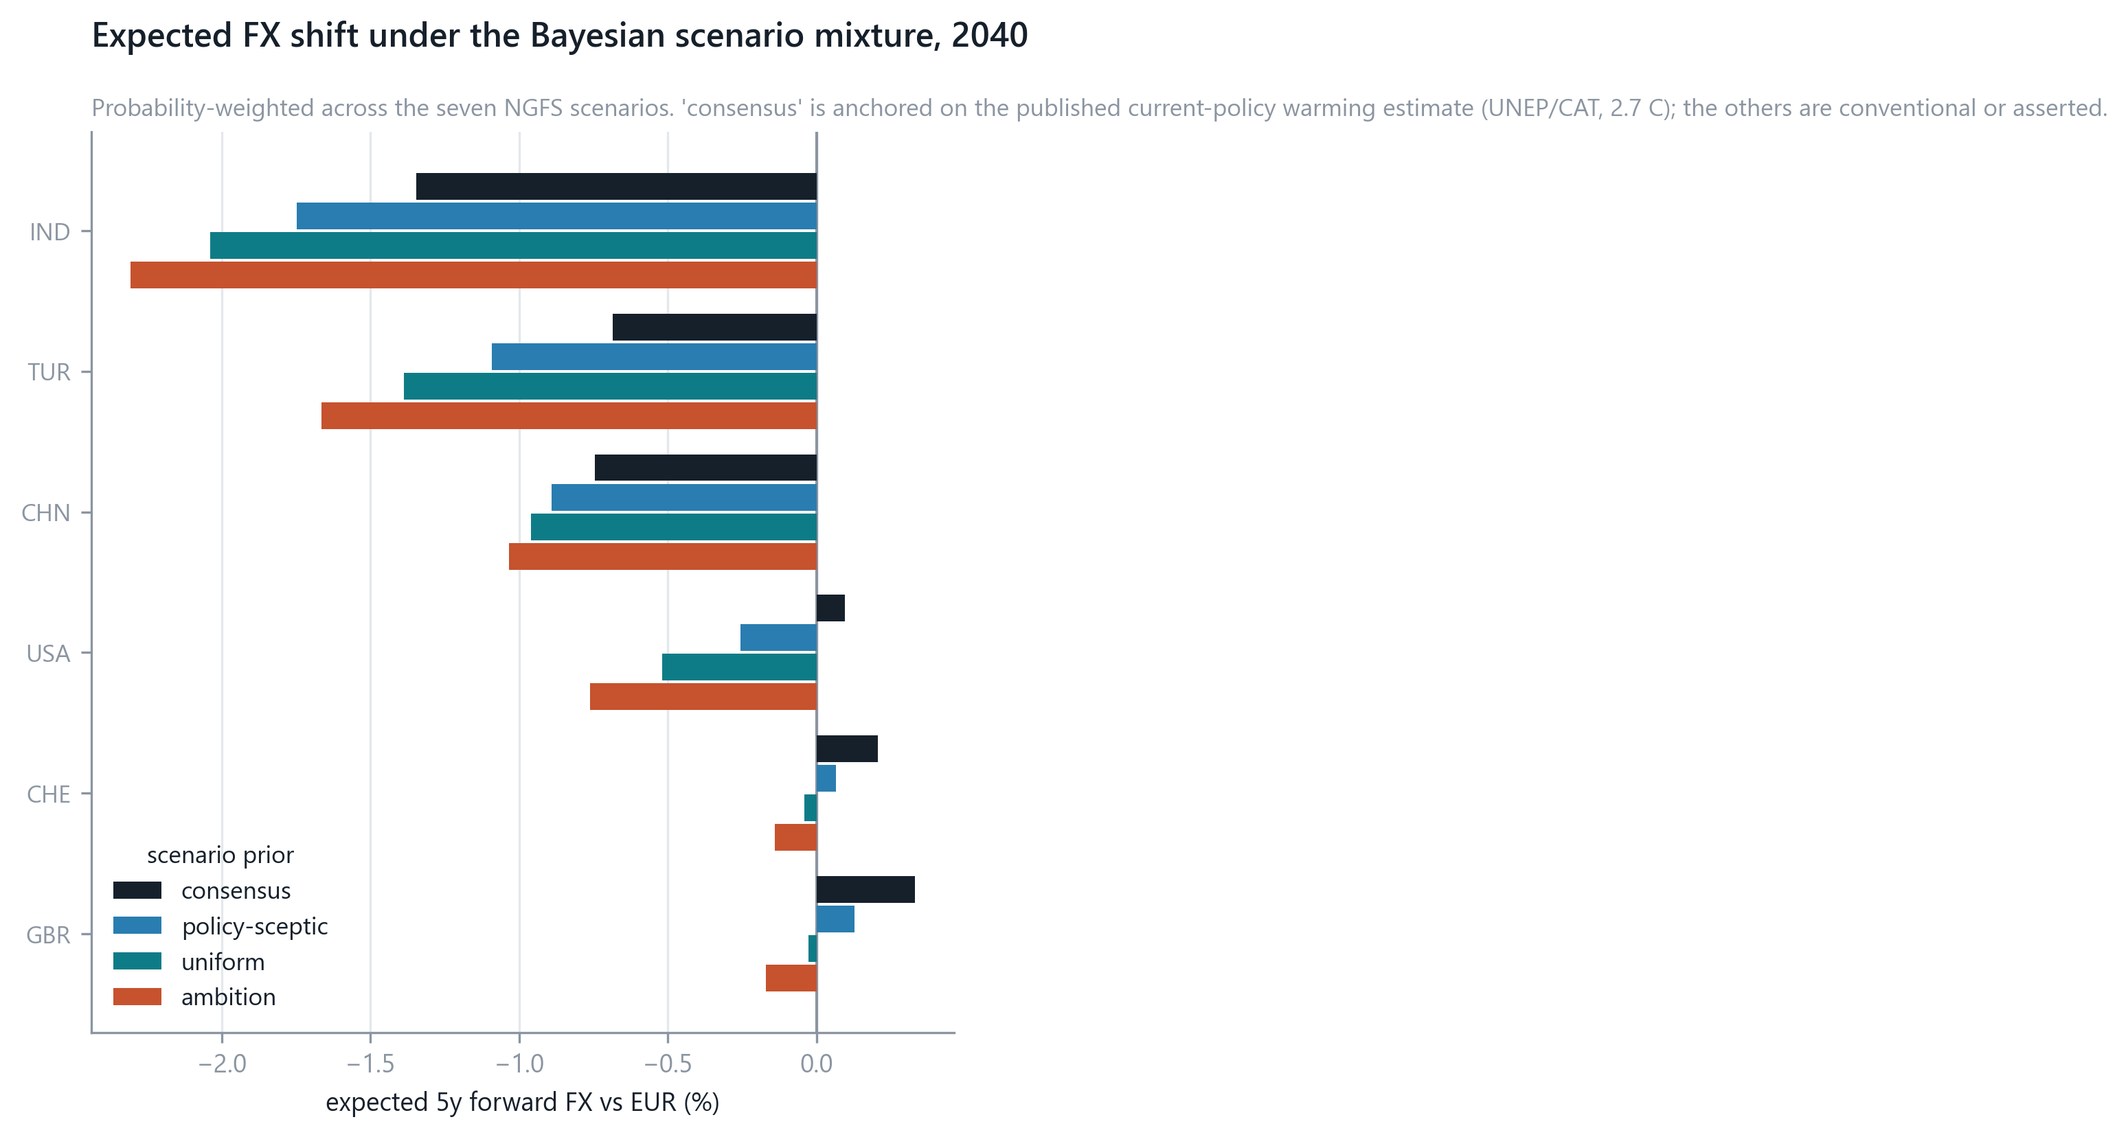
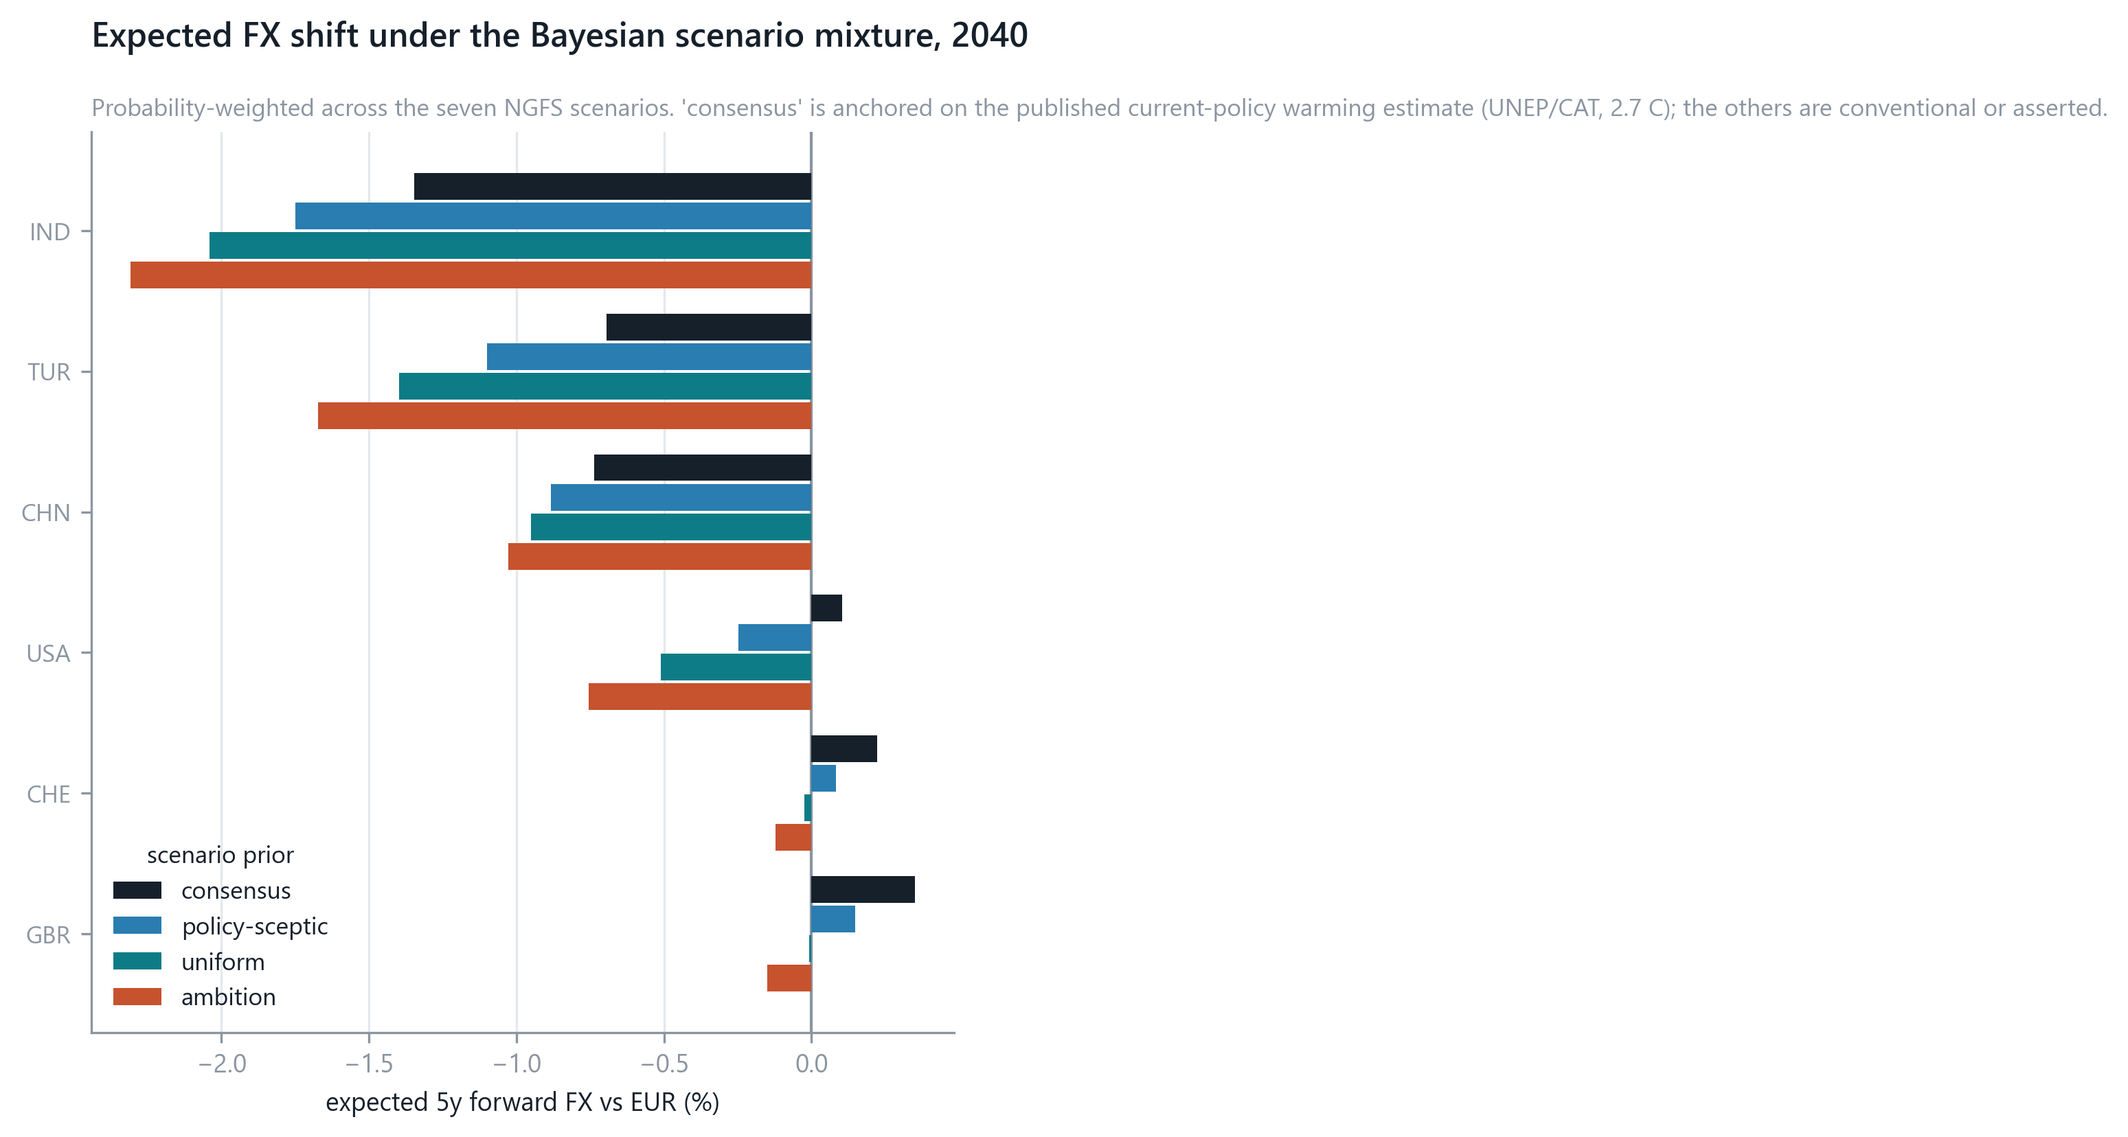
Refresh docs and figures after the ND-GAIN re-pin; restore two lost sections
Pulled four commits from origin. One of them, fb1758b, fixes a bug I introduced:
build_aux_final selected the ND-GAIN vintage with max() over the release's year
columns, so the vulnerability scale silently tracked the 2024 edition while the
GDP weights aggregating it were 2022. Pinning it to the base year changes every
physical damage number, and therefore rates, FX forwards and credit.

The incoming commits regenerated the result tables but not the figures or the
docs that quote them, so:

  * all 13 figures regenerated on the corrected data;
  * CHAPTER_RESULTS: 23 stale numbers updated -- rate shifts moved 0.1-0.4 bp,
    FX forwards 0.01-0.02 pp, and the rate ordering swapped EU27 and USA at
    -39.0 vs -38.1 bp;
  * FX_REPORT: 32 numbers updated across the channel, cross-section, scenario,
    timing, mixture and tail tables, plus the forward-vs-damage correlation
    0.786 -> 0.791;
  * FIGURES: the fig1 and fig5 ranges.

Separately, the incoming rewrite of CHAPTER_VALIDATION replaced my version with
a shorter one and dropped two sections wholesale: the mutation testing and the
cross-implementation reading. The gates they document are all still in the code
-- group F's twelve, and the OPRISK_INPUT switch -- so the effect was to leave
machinery whose rationale had disappeared. Restored both into the new structure
as sections 7 and 8, keeping the incoming sections 1-6 unchanged.

That matters because those two sections carry findings, not commentary: that
[…]

diff --git a/docs/FX_REPORT.md b/docs/FX_REPORT.md
@@ -29,7 +29,7 @@ cross-sectional orderings.
 | | mechanism | driven by | range at 2045 (Net Zero) |
 |---|---|---|--:|
 | **Spot** | relative PPP — cumulative inflation differential | the carbon **price** | 1.85 pp |
-| **5y forward** | spot + CIP rate differential | + physical **damage** | 3.28 pp |
+| **5y forward** | spot + CIP rate differential | + physical **damage** | 3.30 pp |
 
 ## 2. The two channels price different risks
 
@@ -38,8 +38,8 @@ Correlating each against what a region can be — a carbon *taxer*, a
 
 | | vs carbon-pricing **scope** | vs physical **damage** | vs carbon intensity |
 |---|--:|--:|--:|
-| **Spot** | **+0.9999** | +0.444 | −0.525 |
-| **5y forward** | +0.898 | **+0.786** | −0.827 |
+| **Spot** | **+0.9999** | +0.452 | −0.525 |
+| **5y forward** | +0.898 | **+0.791** | −0.826 |
 
 **Spot prices transition risk.** It runs through the Moessner relation
 (ΔΠ = 8e-5 · ΔXCE · scope), so a region's spot move is very nearly a function of
@@ -78,10 +78,10 @@ population that exhibited it is not.
 |---|--:|---|
 | INR | −4.01 % | no carbon pricing, highest vulnerability (ND-GAIN scale 1.34) |
 | TRY | −3.38 % | no carbon pricing, high intensity (264 t/\$m), CBAM-exposed |
-| USD | −2.24 % | low coverage (0.091) on a large carbon price |
-| CNY | −1.50 % | high coverage (0.467) offsets a large GVA shock |
-| GBP | −1.03 % | high coverage (0.326), low intensity (61 t/\$m) |
-| CHF | −0.73 % | lowest intensity in the set (20 t/\$m), low vulnerability |
+| USD | −2.23 % | low coverage (0.091) on a large carbon price |
+| CNY | −1.49 % | high coverage (0.467) offsets a large GVA shock |
+| GBP | −1.01 % | high coverage (0.326), low intensity (61 t/\$m) |
+| CHF | −0.71 % | lowest intensity in the set (20 t/\$m), low vulnerability |
 
 India and Turkey lead on **both** attributes — little carbon pricing (so no
 offsetting inflation) and high exposure (so deep rate cuts). Switzerland sits at
@@ -97,15 +97,15 @@ Range across the six currencies at 2045, split by channel:
 
 | scenario | spot range | forward range | mean physical damage |
 |---|--:|--:|--:|
-| **Net Zero 2050** | 1.85 pp | 3.28 pp | −1.03 % |
-| Low demand | 1.00 pp | 2.41 pp | −1.04 % |
-| Delayed transition | 0.44 pp | 2.10 pp | −1.17 % |
-| Below 2°C | 0.43 pp | 2.05 pp | −1.11 % |
-| NDCs | 0.28 pp | 2.00 pp | −1.15 % |
-| Fragmented World | 0.10 pp | 1.88 pp | −1.21 % |
-| **Current Policies** | 0.02 pp | 1.86 pp | −1.21 % |
+| **Net Zero 2050** | 1.85 pp | 3.30 pp | −1.03 % |
+| Low demand | 1.00 pp | 2.43 pp | −1.04 % |
+| Delayed transition | 0.44 pp | 2.12 pp | −1.17 % |
+| Below 2°C | 0.43 pp | 2.07 pp | −1.11 % |
+| NDCs | 0.28 pp | 2.02 pp | −1.15 % |
+| Fragmented World | 0.10 pp | 1.91 pp | −1.21 % |
+| **Current Policies** | 0.02 pp | 1.88 pp | −1.21 % |
 
-Scenario choice spans only **1.8×** on the forward (3.28 pp against 1.86 pp),
+Scenario choice spans only **1.8×** on the forward (3.30 pp against 1.88 pp),
 because the two channels move in *opposite* directions across scenarios:
 
 * ambitious policy → **high** carbon price (large spot dispersion) but **low**
@@ -128,11 +128,11 @@ risk, at this horizon, is not.** No scenario removes the floor.
 | | 2025 | 2030 | 2035 | 2040 | 2045 |
 |---|--:|--:|--:|--:|--:|
 | IND | −0.85 | −3.54 | −3.30 | −3.61 | −4.01 |
-| TUR | −0.42 | −3.03 | −2.72 | −2.99 | −3.38 |
-| USA | +0.09 | −2.07 | −1.73 | −1.92 | −2.24 |
-| CHN | −0.48 | −1.30 | −1.44 | −1.40 | −1.50 |
-| GBR | +0.23 | −0.98 | −0.75 | −0.85 | −1.03 |
-| CHE | +0.14 | −0.69 | −0.54 | −0.60 | −0.73 |
+| TUR | −0.42 | −3.04 | −2.73 | −3.00 | −3.38 |
+| USA | +0.09 | −2.06 | −1.73 | −1.91 | −2.23 |
+| CHN | −0.48 | −1.30 | −1.43 | −1.39 | −1.49 |
+| GBR | +0.24 | −0.96 | −0.74 | −0.83 | −1.01 |
+| CHE | +0.16 | −0.68 | −0.52 | −0.59 | −0.71 |
 
 The paths jump to 2030 and are then broadly flat, with a shallow dip at 2035. Two
 effects nearly cancel: the transition component peaks and fades as
@@ -150,10 +150,10 @@ Mixing the seven scenarios under a Dirichlet prior (§2.2) gives the expected
 
 | prior | INR | TRY | CNY | USD | GBP | CHF |
 |---|--:|--:|--:|--:|--:|--:|
-| ambition | −2.31 | −1.66 | −1.03 | −0.76 | −0.17 | −0.14 |
-| uniform | −2.04 | −1.39 | −0.96 | −0.52 | −0.03 | −0.04 |
-| policy-sceptic | −1.75 | −1.09 | −0.89 | −0.26 | +0.13 | +0.07 |
-| **consensus** | −1.35 | −0.69 | −0.75 | +0.10 | +0.33 | +0.21 |
+| ambition | −2.31 | −1.67 | −1.03 | −0.75 | −0.15 | −0.12 |
+| uniform | −2.04 | −1.40 | −0.95 | −0.51 | −0.01 | −0.02 |
+| policy-sceptic | −1.75 | −1.10 | −0.88 | −0.25 | +0.15 | +0.08 |
+| **consensus** | −1.35 | −0.69 | −0.74 | +0.10 | +0.35 | +0.22 |
 
 The prior matters most where the move is largest: **1.7× on INR** between
 ambition and consensus. For GBP and CHF it flips the sign, but on moves small
@@ -167,11 +167,11 @@ from the cross-model spread — widens the tail at 2040:
 | | central | q95 |
 |---|--:|--:|
 | INR | −3.61 | **−4.09** |
-| TRY | −2.99 | −4.01 |
-| USD | −1.92 | −3.37 |
-| CHN | −1.40 | −2.20 |
-| GBP | −0.85 | −1.91 |
-| CHF | −0.60 | −1.32 |
+| TRY | −3.00 | −4.01 |
+| USD | −1.91 | −3.37 |
+| CHN | −1.39 | −2.20 |
+| GBP | −0.83 | −1.91 |
+| CHF | −0.59 | −1.32 |
 
 Every currency moves further from the euro under stress, and the *ordering*
 changes: TRY overtakes USD and the gap between INR and TRY nearly closes. The
@@ -205,7 +205,7 @@ GSAT already reports. This closes the ambiguity flagged in
 level convention against the paper's printed rows (op-risk 3.62 / 3.02 against
 3.6 / 3.0; 1-day rate −25.8 bp against −25).
 
-Physical damage is consequently not negligible: it runs −0.68 % to −1.37 % of GVA
+Physical damage is consequently not negligible: it runs −0.67 % to −1.37 % of GVA
 across regions at 2040 under Net Zero, about **46 %** of the transition shock.
 
 ### 7c. Carbon intensities are scenario-consistent
@@ -256,7 +256,7 @@ trustworthy channel despite being the more intuitive.
 
 **Six currencies is a thin cross-section.** The derived region set supports USD,
 CNY, GBP, CHF, INR and TRY. Correlations computed on six points are indicative,
-not estimates — the +0.786 forward-vs-damage figure in §2 has roughly the
+not estimates — the +0.791 forward-vs-damage figure in §2 has roughly the
 precision of a scatter plot, and none of §2's numbers should be quoted with a
 standard error. The earlier 20-region build gave 14 currencies; that breadth was
 traded for a defensible selection rule, and the trade is stated in

diff --git a/docs/CHAPTER_VALIDATION.md b/docs/CHAPTER_VALIDATION.md
@@ -176,7 +176,100 @@ All 44 gates pass.
 
 ---
 
-## 7. What this does not show
+## 7. Testing the tests: mutation
+
+A suite is worth exactly what it *rejects*. Every gate above passes, but that is equally
+consistent with the gates being too weak to fail. The check is to break the model
+deliberately and confirm the suite notices.
+
+Seven plausible implementation errors were injected one at a time, each a single edit a
+real implementation could contain, and every gate was run against each:
+
+| injected bug | caught by |
+|---|---|
+| Hull–White $B(\tau)$ uses $+a\tau$ instead of $-a\tau$ | all three suites |
+| technical matrix transposed | reproduction |
+| $\mathbf{A}$ normalised by row instead of column | reproduction |
+| Eq 10 sign error ($+\mathbf{I}$ for $-\mathbf{I}$) | all three suites |
+| forward-points sign flipped | structural |
+| **spot sign flipped** | **nothing — survived** |
+| **forward $=$ spot $-$ points** | **nothing — survived** |
+
+Two survived, and the reason generalises: **symmetry testing is sign-blind.** Every
+invariance gate in §3 asserts that a quantity is *zero*, and zero has no sign. Flipping
+the sign of the spot channel leaves every zero at zero and every magnitude unchanged. The
+one non-symmetric spot gate elsewhere in the project compares $|\text{spot}|$, so it is
+sign-blind too. A model reporting *"a country that prices carbon sees its currency
+strengthen"* — the exact reverse of the economics — would have passed every gate then in
+the suite, 120 of them.
+
+Composition was simply never tested: `forward_total` is a one-line sum, which is precisely
+why nobody thought to check whether it added or subtracted.
+
+**Group F** closes both, by pinning direction and composition where the answer is
+unambiguous rather than zero:
+
+* a region with *higher* carbon-pricing scope than the base must **depreciate**
+  (spot $> 0$), and one with lower scope must appreciate — the relative-PPP direction;
+* the forward must equal spot **plus** points exactly, collapsing to each leg when the
+  other gap vanishes, with a control confirming the two legs have opposite signs in the
+  test case so the identity is not satisfied trivially;
+* on the real calibration EU27 holds the **highest** carbon-pricing scope (0.645 against
+  0.467 next), so relative PPP *requires* every other currency to appreciate against the
+  euro.
+
+That last gate turns a result into an explanation: the absence of spot sign reversals is
+forced by the EU being the most carbon-priced economy in the set, not a coincidence, and
+the gate fails the day that stops being true. After group F, all seven mutants are caught.
+
+The lesson outlives this project. Symmetry arguments establish that a model is
+*internally consistent*, not that it points the right way, so any suite built on them
+needs at least one asymmetric, direction-pinning test per channel — and the way to find
+out whether it has one is to break the model on purpose.
+
+---
+
+## 8. Cross-implementation reading
+
+A fourth mode sits outside the three above, and in practice it found more than they did:
+reading an independent implementation of the same paper and diffing the *specifications*
+rather than the numbers. The single-region reproduction this project extends is such an
+implementation, and a full read produced four findings no gate could have.
+
+**An inconsistency of ours, corrected.** We had accepted that a tax wedge is not an output
+gap and removed the transition shock from the Taylor rule — then left it in the
+operational-risk channel, which runs Okun's law. Okun maps real *output* to employment; a
+wedge destroys no output. The reference is unambiguous: it calls `oprisk.shift(omega, …)`
+and never passes it the carbon shock. Correcting it moved conduct losses at 2040 under Net
+Zero from 2.0–37.1 % to **2.0–10.2 %**.
+
+The 37.1 % is the instructive part. The reference's Eq 25 is a *saturating* form bounded
+above by 23.77 % for conduct; ours is the linearisation of the same regression and is
+unbounded, so it had produced a number the reference's functional form **cannot generate
+at any damage level**. Dimensionally fine, correctly signed, monotone, and wrong.
+
+**An open question closed.** The deviation register carried Eq 15's integral as an
+ambiguity. The reference *defines* `short_rate_shift` for it and never calls it, passing
+the Taylor output straight into the Hull–White expansion, which is what we do.
+
+**A choice quantified.** Proposition 1 admits a direct reading and a cascading one. The
+direct form reproduces $\Omega$ exactly by the Prop-1 identity; the cascade gives 0.42× of
+it at $\phi = 0.5$, so applying both — as the text can be read to suggest — would count the
+damage 1.42 times.
+
+**A framing difference recorded.** The reference evaluates $\Omega$ at the *valuation
+date* for the Taylor rule and op-risk, so its climate rate shift is constant across
+tenors. Correct for its question, a repricing of today's damage; wrong for a 2025–2045
+projection, and it means our rate path is not comparable to the paper's Table 12.
+
+Two of these four were unreachable by self-consistency testing, because the model was
+internally consistent about the wrong specification. Where a second implementation exists,
+reading it is cheaper than re-deriving the same conclusions from prose, and more reliable:
+code cannot be ambiguous about which of two readings it took.
+
+---
+
+## 9. What this does not show
 
 Structural correctness is not empirical correctness. Every gate above would pass just as
 happily for a model with the wrong damage coefficient, the wrong carbon prices, or a

diff --git a/docs/CHAPTER_RESULTS.md b/docs/CHAPTER_RESULTS.md
@@ -32,9 +32,9 @@ gap ([FX_REPORT.md](FX_REPORT.md) §7a).
 
 Short-rate shift at 2040 (bp):
 
-| IND | AFR | MEA | TUR | RASIA | CHN | LAM | ROW | RUS | USA | EU27 | CHE | GBR |
+| IND | AFR | MEA | TUR | RASIA | CHN | LAM | ROW | RUS | EU27 | USA | CHE | GBR |
 |--:|--:|--:|--:|--:|--:|--:|--:|--:|--:|--:|--:|--:|
-| −68.4 | −67.0 | −61.5 | −54.7 | −54.5 | −54.3 | −50.8 | −46.9 | −42.7 | −38.2 | −38.9 | −35.1 | −32.8 |
+| −68.5 | −66.9 | −61.9 | −54.9 | −54.4 | −54.2 | −50.8 | −47.0 | −42.6 | −39.0 | −38.1 | −34.9 | −32.4 |
 
 **Every region cuts, in every scenario, at every horizon** — 0 of 91
 region-scenario pairs shows a rise. That is not a finding about central banks so
@@ -50,7 +50,8 @@ against \$9.53/yr in the late 2030s. The inflation channel responds to the
 *increment*, so it spikes: at 2030 it contributes **105 %** of the EU's rate move
 (+17.4 bp against −34.1 bp of damage), and only 6 % at 2040. Every rate path in
 the model therefore has a kink at 2030 that belongs to the five-year publication
-grid rather than to any economics.
+grid rather than to any economics. (At 2030 the EU's damage term is −34.2 bp
+against an inflation offset of +17.4 bp.)
 
 ### 2.1 The term structure adds nothing to the cross-section
 
@@ -60,8 +61,8 @@ the short-rate shift and cannot reorder regions:
 
 | | 1D | 6M | 1Y | 5Y | 10Y | 20Y |
 |---|--:|--:|--:|--:|--:|--:|
-| IND | −68.4 | −67.7 | −67.0 | −62.0 | −56.4 | −47.1 |
-| EU27 | −38.9 | −38.5 | −38.1 | −35.3 | −32.1 | −26.8 |
+| IND | −68.5 | −67.8 | −67.2 | −62.1 | −56.5 | −47.2 |
+| EU27 | −39.0 | −38.6 | −38.2 | −35.3 | −32.1 | −26.8 |
 
 The 20Y/1D ratio is **0.6884** for every region, against B(20)/20 = 0.6883 — a
 gated identity. All cross-region variation lives in Δr; none of it in the curve.
@@ -87,7 +88,7 @@ Five-year forward at 2045 (%):
 
 | INR | TRY | USD | CNY | GBP | CHF |
 |--:|--:|--:|--:|--:|--:|
-| −4.01 | −3.38 | −2.24 | −1.50 | −1.03 | −0.73 |
+| −4.01 | −3.38 | −2.23 | −1.49 | −1.01 | −0.71 |
 
 **A strengthening currency here is a distress signal, not strength.** It reflects
 damage forcing deep rate cuts, which under covered interest parity produce a
@@ -171,7 +172,7 @@ credit.
 
 ### 4.2 The regional ordering
 
-Median across sectors (%): **IND 14.2**, CHN 9.3, AFR 8.5, RUS 8.4, TUR 8.2,
+Median across sectors (%): **IND 14.2**, CHN 9.3, AFR 8.5, RUS 8.3, TUR 8.2,
 RASIA 7.1, ROW 6.2, LAM 5.6, MEA 3.9, EU27 3.8, GBR 2.6, USA 2.4, **CHE 1.5**.
 
 A near-tenfold span between India and Switzerland, driven by carbon intensity
@@ -196,7 +197,7 @@ Median credit widening across all region-sector cells at 2040:
 
 | Net Zero | Low demand | Delayed transition | Below 2 °C | NDCs | Fragmented World | Current Policies |
 |--:|--:|--:|--:|--:|--:|--:|
-| 3.95 % | 2.47 % | 2.14 % | 1.90 % | 1.79 % | 1.13 % | 0.82 % |
+| 3.95 % | 2.46 % | 2.14 % | 1.89 % | 1.79 % | 1.12 % | 0.82 % |
 
 Credit spans **4.8×** across scenarios — far more than FX, whose forward
 dispersion spans only 1.8×. The reason is that credit here is driven almost
@@ -283,7 +284,7 @@ looking different in each.
 
 **Rates** fall everywhere, unconditionally, because damage of order 1 % of GDP
 overwhelms carbon inflation of order 5 bp. The spread between regions is 36 bp at
-2040, and the term structure rescales it without reordering.
+2040 (−32.4 to −68.5), and the term structure rescales it without reordering.
 
 **Exchange rates** are a relative price, so they reward being *unlike* the base
 region rather than being unharmed. Every currency in the set appreciates against

diff --git a/docs/FIGURES.md b/docs/FIGURES.md
@@ -41,7 +41,7 @@ is the point the figure makes. All seven inputs are in fig7.
 
 **Findings.** The channel ranking flips cleanly: under Net Zero transition
 dominates in **10/13** regions (China −4.72 %), under Current Policies physical
-dominates in **13/13**. Physical damage runs −0.68 % to −1.47 % of GVA across all
+dominates in **13/13**. Physical damage runs −0.67 % to −1.48 % of GVA across all
 seven scenarios and its *mean* varies by only 0.08 pp between them, because
 warming to 2040 is largely locked in; the transition cost varies enormously
 (−4.72 % to −0.01 %).
@@ -55,8 +55,8 @@ difference stated in the subtitle.
 **What.** 5-year forward FX shift against the euro at 2040, one bar per currency,
 with a tick marking the spot-only component.
 
-**Findings.** INR −3.61 %, TRY −2.99 %, USD −1.92 % at one end; CHF −0.60 % and
-GBP −0.85 % at the other. The ordering blends **physical vulnerability** with the
+**Findings.** INR −3.61 %, TRY −3.00 %, USD −1.91 % at one end; CHF −0.59 % and
+GBP −0.83 % at the other. The ordering blends **physical vulnerability** with the
 absence of carbon pricing — India and Türkiye score badly on both, Switzerland
 well on both. Under the 13-region set **every** currency strengthens against the
 euro; the sign reversals an earlier 20-region build showed came from Japan, Korea
@@ -188,7 +188,7 @@ have market data — CHE, RASIA, LAM, MEA, AFR, ROW and RUS all share one beta.
 Current Policies, with a fitted line.
 
 **Findings.** Damage tracks vulnerability almost exactly — correlation **−0.99**,
-worst IND −1.37 % (scale 1.337), least GBR −0.68 % (scale 0.793), under the
+worst IND −1.37 % (scale 1.340), least GBR −0.67 % (scale 0.785), under the
 pre-industrial warming convention (§7b of FX_REPORT). **Treat this as a
 consistency check, not a discovery:** Proposition 1 allocates damage through the
 VL vector, which is built from ND-GAIN, so the relationship is mechanical by
